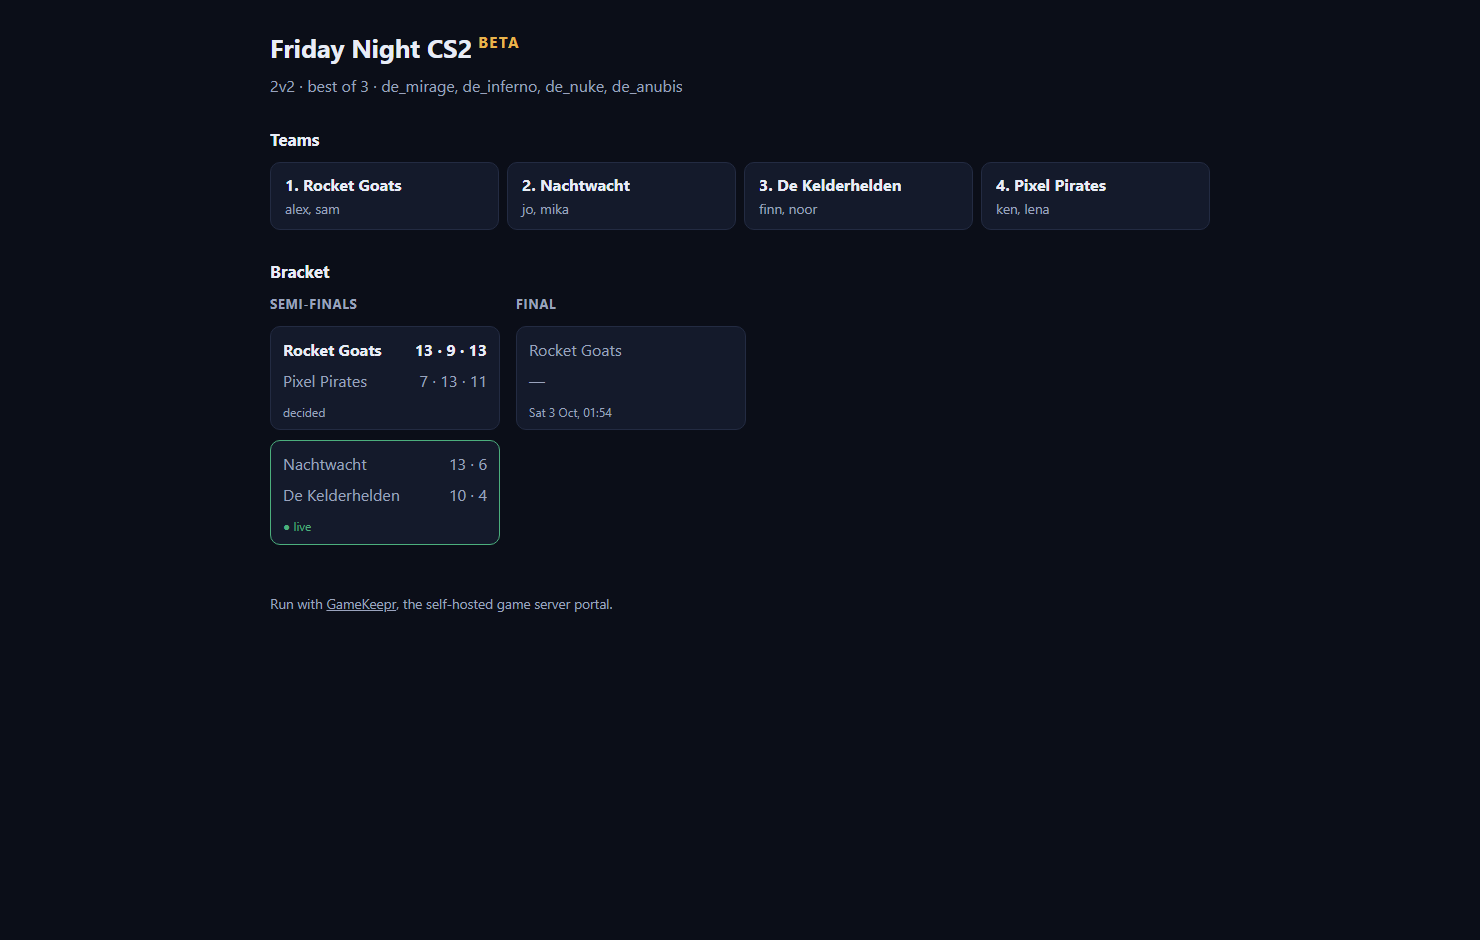
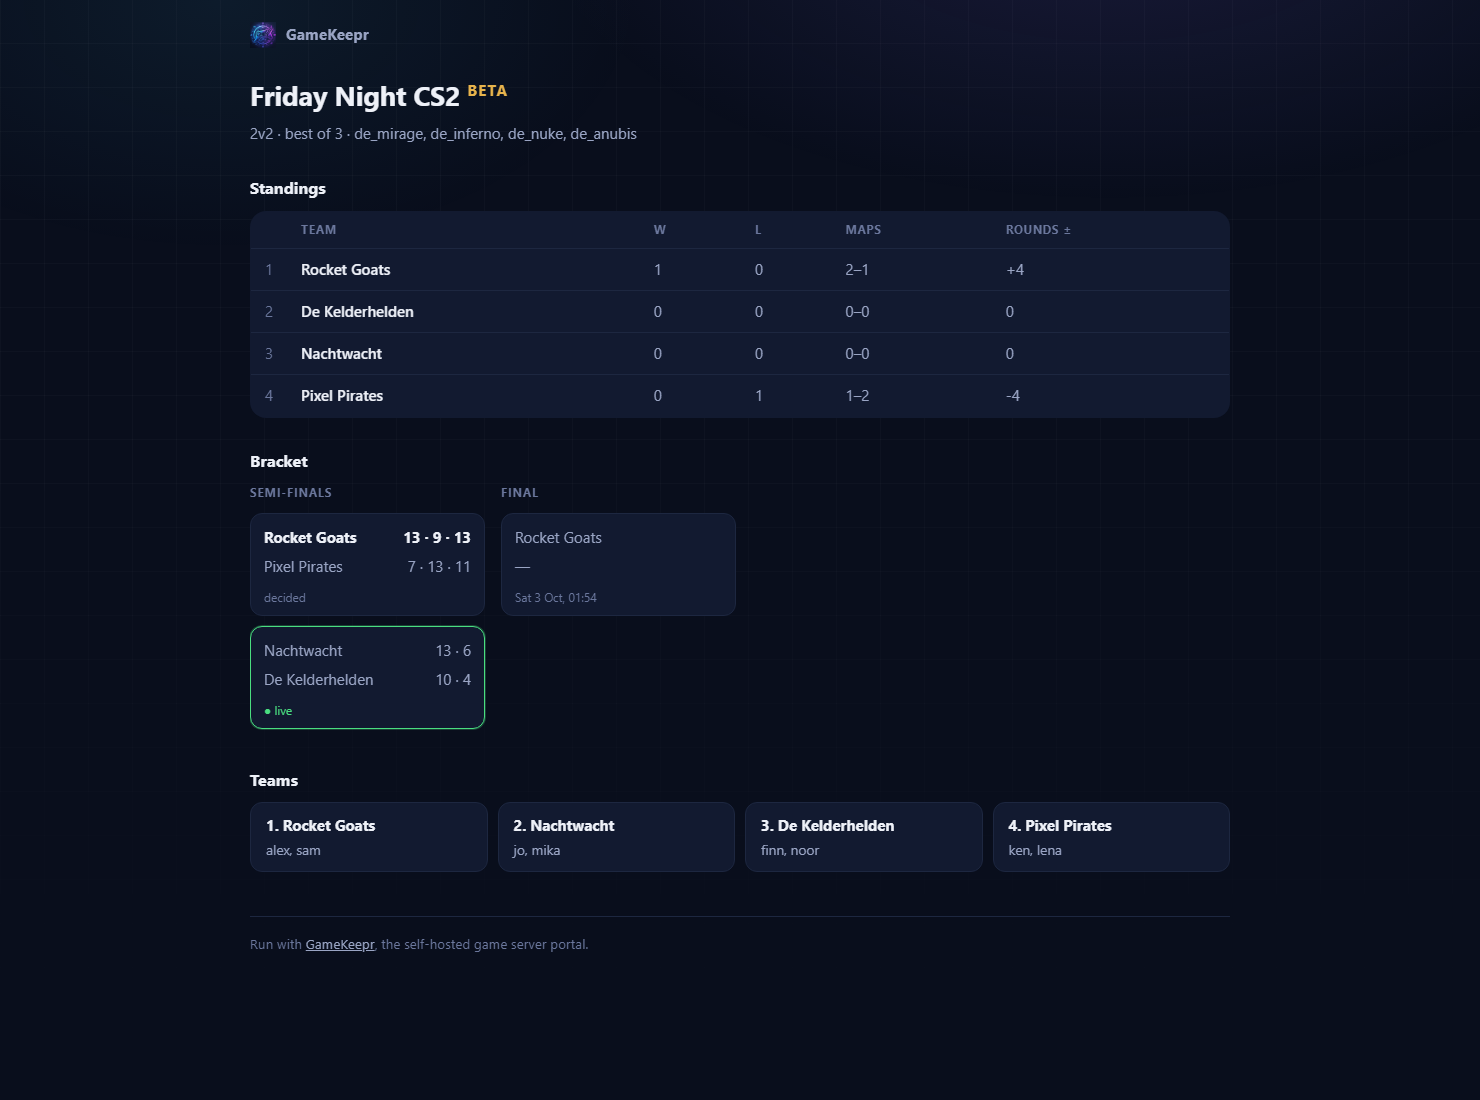
The public page dresses like the portal, and both learn the standings
Token for token the portal's own theme — grid backdrop, brand row with the
logo, the same surfaces — so a shared tournament link is unmistakably the
same product; the branding stays one swappable layer for the later
white-label. Both the public page and the portal's tournament view gain a
Standings table: wins, then map difference, then rounds, with only settled
matches counting — a live score is news, not a standing. The card grid
also gained the 18px bottom breath it owed the section below it.

diff --git a/server/src/tournaments/publicPage.ts b/server/src/tournaments/publicPage.ts
@@ -40,6 +40,57 @@ export interface PublicTournament {
   beta: true;
 }
 
+export interface StandingRow {
+  team: string;
+  played: number;
+  wins: number;
+  losses: number;
+  mapsWon: number;
+  mapsLost: number;
+  roundDiff: number;
+}
+
+/**
+ * The leaderboard, derived from nothing but the matches: wins first, then map
+ * difference, then round difference. Only settled matches count — a live
+ * score is news, not a standing.
+ */
+export function computeStandings(
+  teams: Array<{ name: string }>,
+  matches: PublicMatch[],
+): StandingRow[] {
+  const rows = new Map<string, StandingRow>(
+    teams.map((t) => [
+      t.name,
+      { team: t.name, played: 0, wins: 0, losses: 0, mapsWon: 0, mapsLost: 0, roundDiff: 0 },
+    ]),
+  );
+  for (const match of matches) {
+    if (match.state !== 'decided' && match.state !== 'forfeit') continue;
+    if (!match.teamA || !match.teamB || !match.winner) continue;
+    const a = rows.get(match.teamA);
+    const b = rows.get(match.teamB);
+    if (!a || !b) continue;
+    a.played++;
+    b.played++;
+    (match.winner === match.teamA ? a : b).wins++;
+    (match.winner === match.teamA ? b : a).losses++;
+    for (const map of match.maps) {
+      if (map.scoreA > map.scoreB) (a.mapsWon++, b.mapsLost++);
+      else if (map.scoreB > map.scoreA) (b.mapsWon++, a.mapsLost++);
+      a.roundDiff += map.scoreA - map.scoreB;
+      b.roundDiff += map.scoreB - map.scoreA;
+    }
+  }
+  return [...rows.values()].sort(
+    (x, y) =>
+      y.wins - x.wins ||
+      y.mapsWon - y.mapsLost - (x.mapsWon - x.mapsLost) ||
+      y.roundDiff - x.roundDiff ||
+      x.team.localeCompare(y.team),
+  );
+}
+
 const publicState = (match: MatchRow): PublicMatch['state'] => {
   if (match.status === 'decided') return 'decided';
   if (match.status === 'forfeit') return 'forfeit';
@@ -131,6 +182,25 @@ export function renderFragment(data: PublicTournament): string {
           : ''
     }`;
 
+  const standings = computeStandings(data.teams, data.matches);
+  const leaderboard =
+    standings.some((row) => row.played > 0)
+      ? `<section><h2>Standings</h2><table class="standings">
+          <thead><tr><th></th><th>Team</th><th>W</th><th>L</th><th>Maps</th><th>Rounds ±</th></tr></thead>
+          <tbody>${standings
+            .map(
+              (row, index) =>
+                `<tr${data.champion === row.team ? ' class="top"' : ''}>
+                   <td class="pos">${index + 1}</td>
+                   <td>${data.champion === row.team ? '🏆 ' : ''}${esc(row.team)}</td>
+                   <td>${row.wins}</td><td>${row.losses}</td>
+                   <td>${row.mapsWon}–${row.mapsLost}</td>
+                   <td>${row.roundDiff > 0 ? '+' : ''}${row.roundDiff}</td>
+                 </tr>`,
+            )
+            .join('')}</tbody></table></section>`
+      : '';
+
   const teams =
     data.teams.length > 0
       ? `<section><h2>Teams</h2><ul class="teams">${data.teams
@@ -175,7 +245,7 @@ export function renderFragment(data: PublicTournament): string {
           .join('')}</div></section>`
       : '';
 
-  return header + teams + bracket;
+  return header + leaderboard + bracket + teams;
 }
 
 /** The whole page: shell, theme slot, and a refresh loop while play is on. */
@@ -189,45 +259,84 @@ export function renderPublicPage(slug: string, data: PublicTournament): string {
 <meta name="robots" content="noindex" />
 <title>${esc(data.name)} — GameKeepr</title>
 <style>
-/* The branding layer: the later white-label feature replaces these tokens. */
+/*
+ * The portal's own look, token for token, so the public page is unmistakably
+ * the same product -- and the branding stays one swappable layer: the later
+ * white-label feature replaces these tokens and the brand row, nothing else.
+ */
 :root {
-  --bg: #0b0e18; --surface: #141a2b; --border: #232b42;
-  --text: #e8ecf6; --muted: #9aa3bd; --accent: #e8b44c; --live: #4caf7d;
+  --bg: #090e1c; --surface: #121a30; --surface-2: #1a2440;
+  --border: #273252; --border-soft: #1d2740;
+  --text: #eef1f8; --muted: #9aa5c4; --faint: #6b779c;
+  --accent: #7c6cf2; --accent-cyan: #49c9f7;
+  --ok: #4ade80; --gold: #e8b44c; --radius: 16px;
+  color-scheme: dark;
 }
 * { box-sizing: border-box; }
-body { margin: 0; background: var(--bg); color: var(--text);
-  font: 16px/1.55 system-ui, -apple-system, "Segoe UI", sans-serif; }
-main { max-width: 980px; margin: 0 auto; padding: 28px 20px 60px; }
-h1 { margin: 0; font-size: 1.6rem; }
-h2 { margin: 28px 0 10px; font-size: 1.05rem; }
-.beta { font-size: 0.6em; color: var(--accent); text-transform: uppercase;
-  letter-spacing: 0.08em; vertical-align: super; margin-left: 6px; }
-.meta { color: var(--muted); margin: 6px 0; }
-.champion { font-size: 1.2rem; margin: 10px 0; }
+body {
+  margin: 0; background: var(--bg); color: var(--text); min-height: 100vh;
+  font: 15px/1.55 ui-sans-serif, system-ui, -apple-system, "Segoe UI", Roboto, sans-serif;
+  -webkit-font-smoothing: antialiased;
+}
+/* The portal's grid backdrop: hairlines fading out, plus a soft glow. */
+body::before {
+  content: ""; position: fixed; inset: 0; z-index: -1;
+  background:
+    radial-gradient(900px 480px at 75% -10%, rgba(124, 108, 242, 0.14), transparent 65%),
+    radial-gradient(700px 420px at 15% 0%, rgba(73, 201, 247, 0.07), transparent 60%),
+    repeating-linear-gradient(0deg, rgba(255,255,255,0.025) 0 1px, transparent 1px 44px),
+    repeating-linear-gradient(90deg, rgba(255,255,255,0.025) 0 1px, transparent 1px 44px);
+  mask-image: linear-gradient(to bottom, black 0%, black 40%, transparent 95%);
+}
+main { max-width: 1020px; margin: 0 auto; padding: 22px 20px 60px; }
+.brand {
+  display: flex; align-items: center; gap: 10px; margin-bottom: 26px;
+  color: var(--muted); font-weight: 650; font-size: 0.95rem;
+}
+.brand img { width: 26px; height: 26px; }
+h1 { margin: 0; font-size: 1.7rem; letter-spacing: -0.01em; }
+h2 { margin: 30px 0 10px; font-size: 1.02rem; }
+.beta { font-size: 0.55em; color: var(--gold); text-transform: uppercase;
+  letter-spacing: 0.08em; vertical-align: super; margin-left: 7px; font-weight: 700; }
+.meta { color: var(--muted); margin: 6px 0 0; }
+.champion { font-size: 1.15rem; margin: 12px 0 0; }
+.standings { width: 100%; border-collapse: collapse; background: var(--surface);
+  border: 1px solid var(--border-soft); border-radius: var(--radius); overflow: hidden; }
+.standings th, .standings td { padding: 9px 14px; text-align: left; }
+.standings th { font-size: 0.72rem; text-transform: uppercase; letter-spacing: 0.07em;
+  color: var(--faint); border-bottom: 1px solid var(--border-soft); font-weight: 650; }
+.standings td { border-bottom: 1px solid var(--border-soft);
+  font-variant-numeric: tabular-nums; color: var(--muted); }
+.standings td:nth-child(2) { color: var(--text); font-weight: 600; }
+.standings tr:last-child td { border-bottom: none; }
+.standings tr.top td { background: rgba(232, 180, 76, 0.07); }
+.standings .pos { color: var(--faint); width: 30px; }
 .teams { list-style: none; margin: 0; padding: 0; display: grid;
-  grid-template-columns: repeat(auto-fill, minmax(220px, 1fr)); gap: 8px; }
-.teams li { background: var(--surface); border: 1px solid var(--border);
-  border-radius: 10px; padding: 10px 14px; }
-.roster { display: block; color: var(--muted); font-size: 0.85rem; }
+  grid-template-columns: repeat(auto-fill, minmax(230px, 1fr)); gap: 10px; }
+.teams li { background: var(--surface); border: 1px solid var(--border-soft);
+  border-radius: 12px; padding: 11px 15px; }
+.roster { display: block; color: var(--muted); font-size: 0.85rem; margin-top: 2px; }
 .bracket { display: flex; gap: 16px; overflow-x: auto; padding-bottom: 8px; }
-.round { min-width: 230px; display: flex; flex-direction: column; gap: 10px; }
-.round h3 { margin: 0 0 2px; font-size: 0.8rem; text-transform: uppercase;
-  letter-spacing: 0.06em; color: var(--muted); }
-.match { background: var(--surface); border: 1px solid var(--border);
-  border-radius: 10px; padding: 8px 12px; }
-.match.live { border-color: var(--live); }
+.round { min-width: 235px; display: flex; flex-direction: column; gap: 10px; }
+.round h3 { margin: 0 0 2px; font-size: 0.74rem; text-transform: uppercase;
+  letter-spacing: 0.07em; color: var(--faint); }
+.match { background: var(--surface); border: 1px solid var(--border-soft);
+  border-radius: 12px; padding: 9px 13px; }
+.match.live { border-color: var(--ok); box-shadow: 0 0 0 1px rgba(74, 222, 128, 0.25); }
 .team { display: flex; justify-content: space-between; gap: 10px; padding: 3px 0;
   color: var(--muted); }
 .team.winner { color: var(--text); font-weight: 650; }
 .score { font-variant-numeric: tabular-nums; }
-.state { margin-top: 6px; font-size: 0.75rem; color: var(--muted); }
-.match.live .state { color: var(--live); }
-footer { margin-top: 40px; color: var(--muted); font-size: 0.85rem; }
-footer a { color: inherit; }
+.state { margin-top: 6px; font-size: 0.74rem; color: var(--faint); }
+.match.live .state { color: var(--ok); }
+footer { margin-top: 44px; color: var(--faint); font-size: 0.84rem;
+  border-top: 1px solid var(--border-soft); padding-top: 16px; }
+footer a { color: var(--muted); }
 </style>
 </head>
 <body>
 <main>
+  <div class="brand"><img src="/logo.png" alt="" width="26" height="26" /> GameKeepr</div>
   <h1>${esc(data.name)}<sup class="beta">beta</sup></h1>
   <div id="live">${renderFragment(data)}</div>
   <footer>Run with <a href="https://kengoossens.github.io/Gamekeep/" rel="noreferrer">GameKeepr</a>,

diff --git a/web/src/pages/TournamentDetailPage.tsx b/web/src/pages/TournamentDetailPage.tsx
@@ -156,6 +156,8 @@ export function TournamentDetailPage({ id, me }: { id: string; me: Me }) {
         />
       ) : null}
 
+      {matches.length > 0 ? <Standings matches={matches} teamName={teamName} /> : null}
+
       {matches.length > 0 ? (
         <Bracket
           matches={matches}
@@ -324,6 +326,80 @@ function Registration({
       ) : (
         <p className="empty">No teams yet.</p>
       )}
+    </section>
+  );
+}
+
+/** Wins first, then map difference, then rounds — only settled matches count. */
+function Standings({
+  matches,
+  teamName,
+}: {
+  matches: TournamentMatch[];
+  teamName: (id: string | null) => string | null;
+}) {
+  const rows = new Map<
+    string,
+    { wins: number; losses: number; mapsWon: number; mapsLost: number; roundDiff: number }
+  >();
+  const row = (teamId: string) => {
+    if (!rows.has(teamId)) rows.set(teamId, { wins: 0, losses: 0, mapsWon: 0, mapsLost: 0, roundDiff: 0 });
+    return rows.get(teamId)!;
+  };
+  for (const match of matches) {
+    if ((match.status !== 'decided' && match.status !== 'forfeit') || !match.teamA || !match.teamB || !match.winner)
+      continue;
+    const a = row(match.teamA);
+    const b = row(match.teamB);
+    (match.winner === match.teamA ? a : b).wins++;
+    (match.winner === match.teamA ? b : a).losses++;
+    for (const map of match.maps) {
+      if (map.scoreA > map.scoreB) (a.mapsWon++, b.mapsLost++);
+      else if (map.scoreB > map.scoreA) (b.mapsWon++, a.mapsLost++);
+      a.roundDiff += map.scoreA - map.scoreB;
+      b.roundDiff += map.scoreB - map.scoreA;
+    }
+  }
+  const sorted = [...rows.entries()].sort(
+    ([, x], [, y]) =>
+      y.wins - x.wins || y.mapsWon - y.mapsLost - (x.mapsWon - x.mapsLost) || y.roundDiff - x.roundDiff,
+  );
+  if (sorted.length === 0) return null;
+
+  return (
+    <section className="card">
+      <div className="card-head">
+        <h2>Standings</h2>
+      </div>
+      <table className="standings">
+        <thead>
+          <tr>
+            <th></th>
+            <th>Team</th>
+            <th>W</th>
+            <th>L</th>
+            <th>Maps</th>
+            <th>Rounds ±</th>
+          </tr>
+        </thead>
+        <tbody>
+          {sorted.map(([teamId, s], index) => (
+            <tr key={teamId}>
+              <td className="pos">{index + 1}</td>
+              <td>{teamName(teamId)}</td>
+              <td>{s.wins}</td>
+              <td>{s.losses}</td>
+              <td>
+                {s.mapsWon}–{s.mapsLost}
+              </td>
+              <td>
+                {s.roundDiff > 0 ? '+' : ''}
+                {s.roundDiff}
+              </td>
+            </tr>
+          ))}
+        </tbody>
+      </table>
     </section>
   );
 }

diff --git a/web/src/styles.css b/web/src/styles.css
@@ -132,6 +132,8 @@ body::after {
   display: grid;
   grid-template-columns: repeat(auto-fill, minmax(180px, 1fr));
   gap: 18px;
+  /* Cards and whatever section follows them breathe the same 18px. */
+  margin-bottom: 18px;
 }
 
 .tile {
@@ -237,6 +239,20 @@ body::after {
 .fieldrow .field { flex: 1 1 160px; margin: 0; }
 /* A button that lines up with the inputs beside it, not with their labels. */
 .fieldrow-action { align-self: end; margin-bottom: 2px; }
+
+.standings { width: 100%; border-collapse: collapse; }
+.standings th, .standings td { padding: 8px 12px; text-align: left; }
+.standings th {
+  font-size: 0.72rem; text-transform: uppercase; letter-spacing: 0.07em;
+  color: var(--faint); border-bottom: 1px solid var(--border-soft); font-weight: 650;
+}
+.standings td {
+  border-bottom: 1px solid var(--border-soft);
+  font-variant-numeric: tabular-nums; color: var(--muted);
+}
+.standings td:nth-child(2) { color: var(--text); font-weight: 600; }
+.standings tr:last-child td { border-bottom: none; }
+.standings .pos { color: var(--faint); width: 30px; }
 
 .bracket { display: flex; gap: 18px; overflow-x: auto; padding-bottom: 6px; }
 .bracket-round { min-width: 240px; display: flex; flex-direction: column; gap: 10px; }
